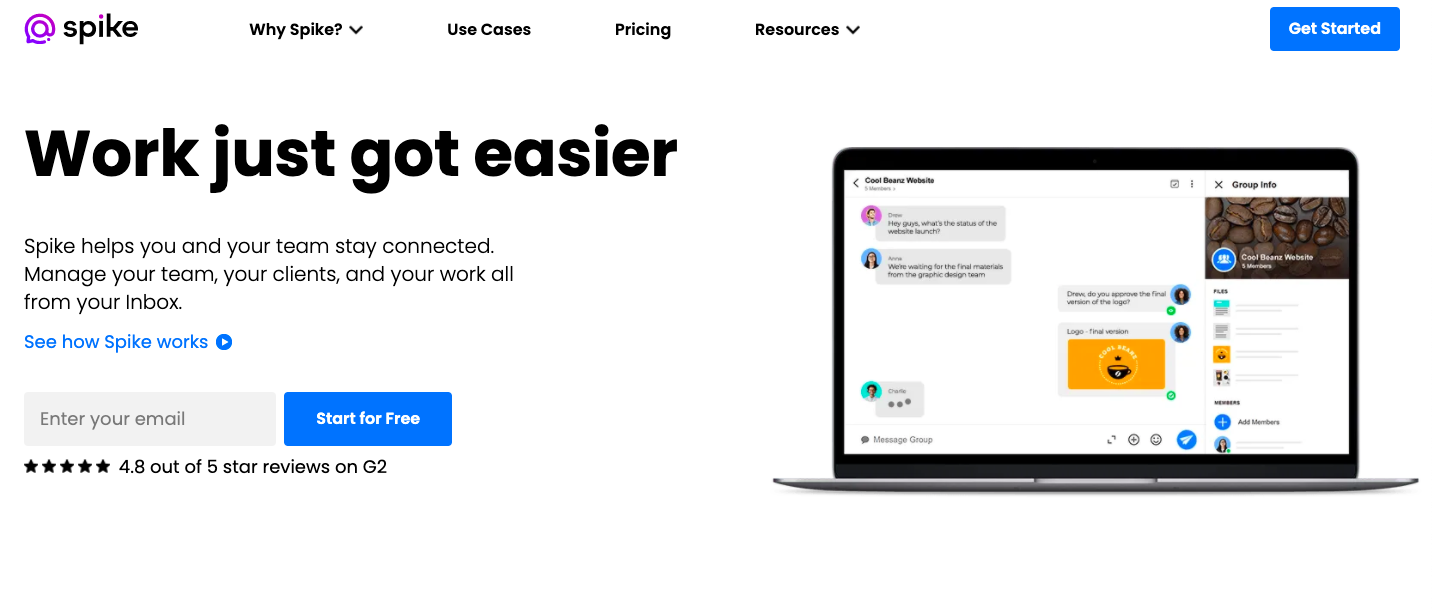
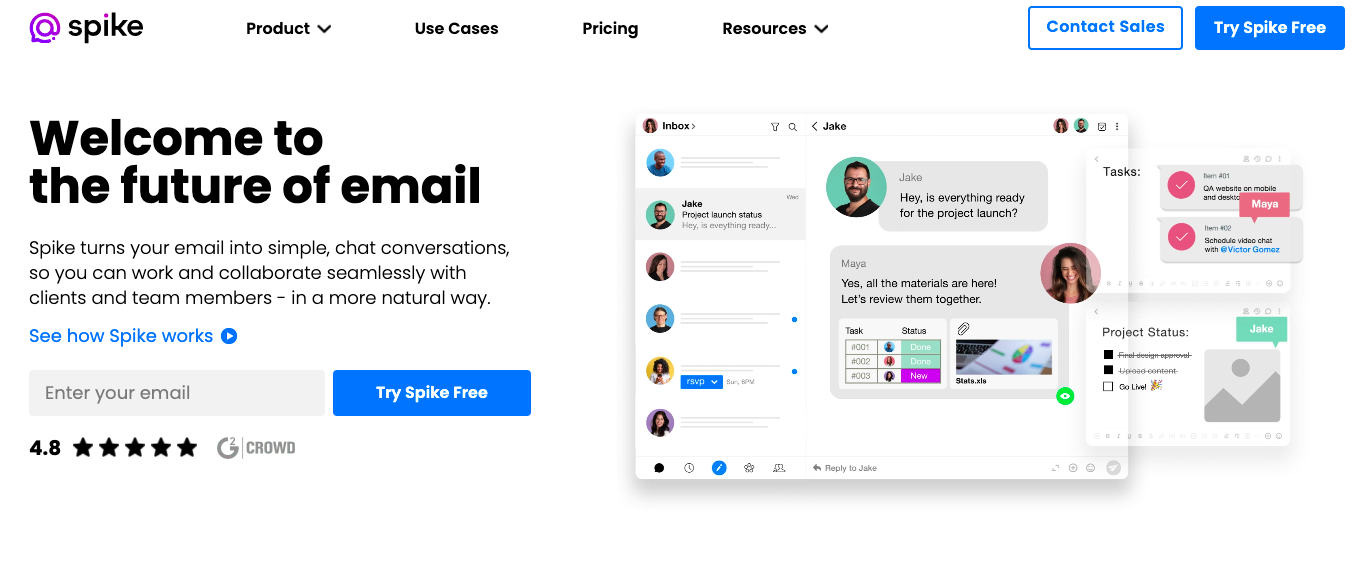
updated email client review and mailgun post

diff --git a/content/reviews/best-email-client.md b/content/reviews/best-email-client.md
@@ -2,7 +2,7 @@
 
 title = "7 Best Email Clients For Mac & Windows"
 date = "2021-01-24"
-lastmod = "2021-01-25"
+lastmod = "2021-08-04"
 description = "Investing in a good email client can make you more productive. See how Superhuman, Mailbird, eM Client, and more compare. "
 draft = false
 tags = ["email", "reviews"]
@@ -328,20 +328,28 @@ Not every email client made my initial list. Here's a few others that look reall
 ![Spike Email App](/uploads/spike.png)
 Spike is a conversational and collaborative email client. It's design is much more like a text conversation than your traditional email client. Spike takes an old school technology like email and brings it into the modern era with tasks and collaborative notes. 
 
-Spike is cross-platform and supports both Macs and PCs
+Using Spike truly feels much more conversational. The entire design and UI changes how you communicate with people and makes using common email cliches of "Hi <Name>, hope you are well!" feel awkward and unnecessary.
+
+Spike has recently added new features, like the ability to send voice messages over email and fully integrated video calls. Spike is transforming into a collaborative communication platform that goes beyond just sending emails.
+
+Spike is cross-platform and supports both Macs, PCs, iOS, and Android.
 
 #### Pricing
 ![Spike Pricing](/uploads/spikepricing.png)
 
 Spike has a competitive free tier that includes up to 15k message history and 5gb of storage. Plenty for the average user to get a feel for using it.
 
-Upgrading to $4/month gets you unlimited messaging history, 50gb of storage, and a whole lot more. 
+Upgrading to $15/month gets you unlimited messaging history, 50gb of storage, access to priority support, and the ability to start a video call with up to 10 people. Perfect for the email power user. 
 
-Bumping that price to $6/month moves you into the business tier, which doubles your storage to 100gb and allows unlimited groups.
+The next tier is for Teams which requires a minimum of 2 seats which cost $10/month each. This tier gives you almost unlimited everything with video calls limited to 50 people. Message storage is also increased to 100GB. 
+
+Lastly their business tier is best suited for larger organizations trying to roll Spike out to entire business units. Pricing there starts at $7/month billed annually and includes a dedicated account manager.
 
 
 #### Features
 * Conversational email (more like a text than an email)
+* Video Meetings
+* Voice messages
 * Collaborative notes & tasks
 * Group chat
 * Advanced search

diff --git a/content/reviews/mailgun.md b/content/reviews/mailgun.md
@@ -1,6 +1,6 @@
 +++
 date = "2021-07-23"
-description = "Mailgun is an email service provider that sends 20+ billion emails/month. Mailgun powers some of the world's leading communication tools."
+description = "Mailgun is an email service provider that sends 20+ billion emails/month and powers some of the world's leading communication tools."
 tags = ["reviews", "email"]
 title = "Mailgun by Pathwire Review | A Leading Email Provider"
 showtoc = true
@@ -185,6 +185,8 @@ Sending good email is a lot like writing good content. There are no hacks to bec
 6. Webhooks, Analytics, and Logs
 7. Shared & Dedicated IP Addresses
 8. Mailing Lists
+10. Email Deliverability Services
+11. Rapid Fire Burst Sending
 
 {{< button "https://click.nicklafferty.com/mailgun" "Try Mailgun Today" >}}
 

diff --git a/content/reviews/superhuman.md b/content/reviews/superhuman.md
@@ -14,6 +14,8 @@ alt = "Superhuman Review"
 
 +++
 
+{{< ad "https://www.spikenow.com" "/uploads/spike_ad.png" >}}
+
 ## What Is Superhuman?
 
 Superhuman is an email app that promises to be the fastest email experience ever made. But it comes at a steep cost: it'll set you back $30/month. And the company isn't letting everyone use it yet, the waitlist is over 275,000 people as of February 2020.
